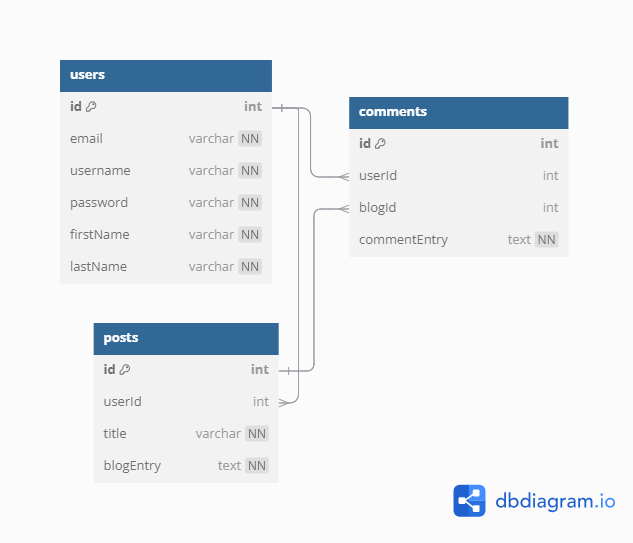
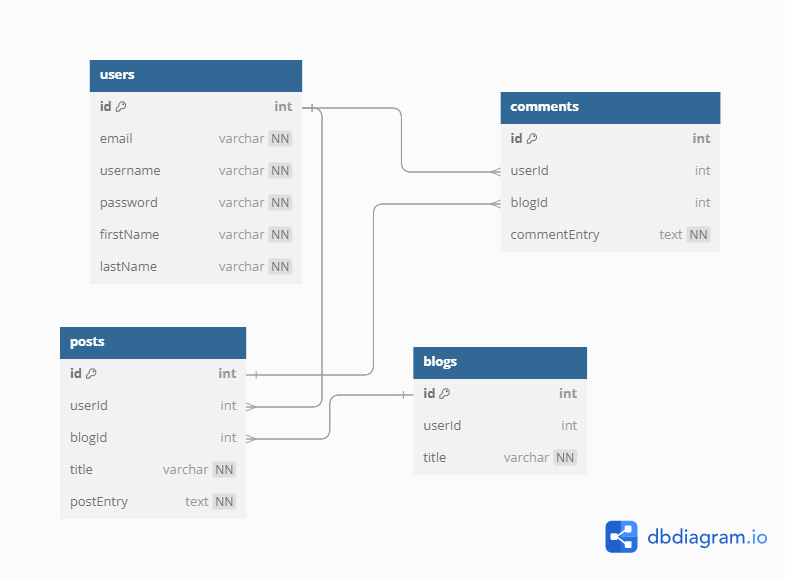
Updated schema with final version and added routes to retreive a post

diff --git a/README.md b/README.md
@@ -7,3 +7,146 @@
 [db-schema]: ./images/example.png
 
 ## API Documentation
+
+
+### Get All Posts of a blog
+
+Gets all of a blogs posts
+
+* Require Authentication: false
+* Request
+  * Method: GET
+  * URL: /api/blogs/:blogId/posts
+  * Body: false
+
+* Successful Response when the posts of a blog are retreived successfully
+  * Status Code: 200
+  * Headers:
+    * Content-Type: application/json
+  * Body:
+
+  ```json
+  
+     { "Blog": {
+        "id":1,
+        "userId": 1,
+        "title": "Demo of Extreme Wellness",
+        "Posts": [
+            {
+              "userId": 1,
+                "blogId": 1,
+                 "title": "My New Post",
+                 "postEntry": "This is a test post entry. Hopefully the passage of your blog post will be longer",
+                 "createdAt": "2021-11-19 20:39:36",
+                 "updatedAt": "2021-11-20 10:06:40"
+            }
+        ]
+      }}
+
+--------------------------
+
+### Create a new post for a blog
+  Create a new post for a blog
+
+* Require Authentication: true
+* Request
+  * Method: POST
+  * URL: /api/blogs/:blogId/posts
+  * Body: 
+
+    ```json
+    {
+      "userId": 1,
+      "blogId": 1,
+      "title": "My New Post",
+      "postEntry": "This is a test post entry. Hopefully the passage of your blog post will be longer",
+    }
+
+* Successful Response when a post of a blog is created successfully
+  * Status Code: 201
+  * Headers:
+    * Content-Type: application/json
+  * Body:
+
+     ```json
+    {
+      "User": {
+        "id": 1,
+        "email": "demo@user.io",
+        "username": "Demo-lition",
+        "firstName": "Demo",
+        "lastName": "Lition",
+      },
+      "Blog": {
+        "id":1,
+        "userId": 1,
+        "title": "Demo of Extreme Wellness"
+      },
+      "title": "My New Post",
+      "postEntry": "This is a test post entry. Hopefully the passage of your blog post will be longer",
+      "createdAt": "2021-11-19 20:39:36",
+      "updatedAt": "2021-11-20 10:06:40"
+    }
+
+
+  ------------------
+
+  
+### Update a new blog post
+  Create a new post for a blog
+
+* Require Authentication: true
+* Request
+  * Method: PUT, PATCH
+  * URL: /api/blogs/:blogId/posts/:postId
+  * Body: 
+    * Body:
+
+    ```json
+    {
+      "userId": 1,
+      "blogId": 1,
+      "title": "My New Post",
+      "postEntry": "This is a test post entry. Hopefully the passage of your blog post will be longer",
+    }
+
+* Successful Response when the posts of a blog are retreived successfully
+  * Status Code: 200
+  * Headers:
+    * Content-Type: application/json
+  * Body:
+     ```json
+    {
+      "userId": 1,
+      "blogId": 1,
+      "title": "My New Post",
+      "postEntry": "This is a test post entry. Hopefully the passage of your blog post will be longer",
+      "createdAt": "2021-11-19 20:39:36",
+      "updatedAt": "2021-11-20 10:06:40"
+    }
+
+
+  --------------------------
+  
+### Delete a blog post
+  Delete a post for a blog
+
+* Require Authentication: true
+* Request
+  * Method: DELETE
+  * URL: /api/blogs/:blogId/posts/:postId
+  * Body: none
+
+* Successful Response when the posts of a blog are retreived successfully
+  * Status Code: 200
+  * Headers:
+    * Content-Type: application/json
+  * Body:
+
+     ```json
+    {
+      "message": "Successfully deleted"
+    }
+    ```
+  
+
